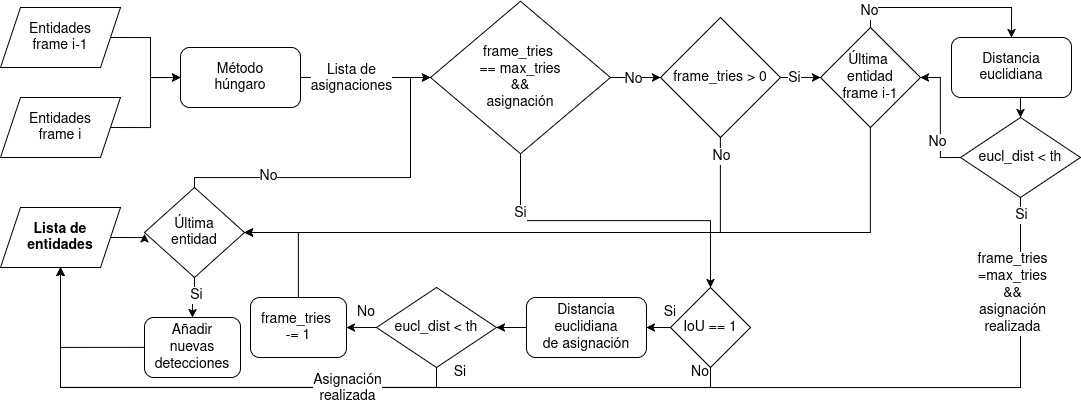
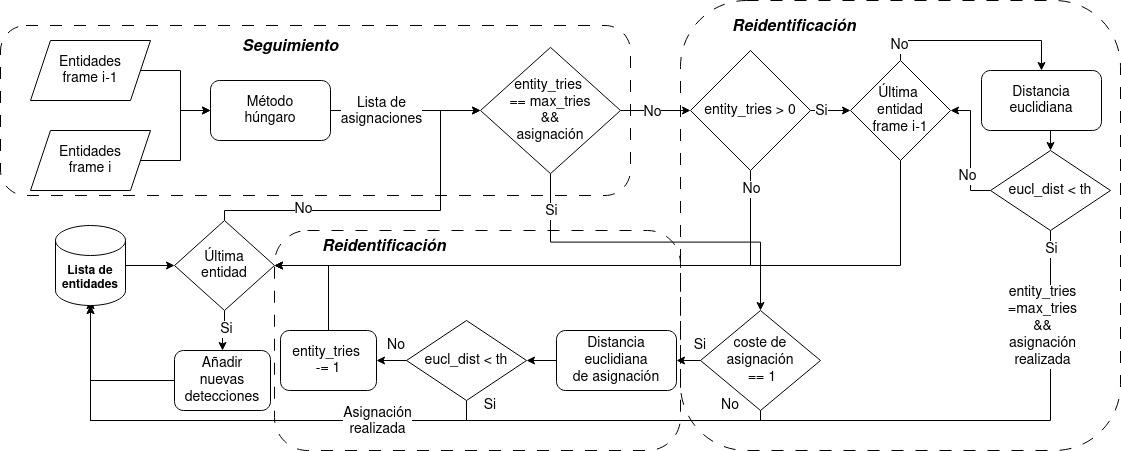
Lil arch

diff --git a/TFM/contenido/5arch.tex b/TFM/contenido/5arch.tex
@@ -38,30 +38,30 @@ TODO: trabajo relacionado? La integración de sensores propuesta en \cite{andrew
 
 En la figura \ref{fig:camnod} se muestra el flujo del nodo cámara.
 
-El nodo cámara recibe la información de un frame \acrshort{rgb} de una de las cámaras, que es procesado por 2 modelos de detección (expuestos en la sección \ref{sec:models}), uno destinado a rostros y el otro para cuerpos. Se obtienen \glspl{bbox} de los rostros y cuerpos detectados, que se comparan para asegurar que cada recorte facial se encuentra contenido en cada recorte corporal.
+El nodo cámara recibe la información de un frame \acrshort{rgb} de una de las cámaras, que es procesado por 2 modelos de detección, uno destinado a rostros (YuNet en la figura \ref{fig:camnod}) y el otro a cuerpos (YOLO en la figura \ref{fig:camnod}). Se obtienen las \glspl{bbox} de los rostros y cuerpos detectados, que se comparan para asegurar que cada recorte facial se encuentra contenido en cada recorte corporal.
 
-Tras comprobar que cada cara detectada se corresponde con un cuerpo, se procede al reconocimiento facial y corporal mediante los respectivos modelos (expuestos en la sección \ref{sec:models}), que devuelven un vector con las características representativas para un individuo (o \gls{embedding}).
+Tras comprobar que cada cara detectada se corresponde con un cuerpo, se procede al reconocimiento facial (ArcFace en la figura \ref{fig:camnod}) y corporal (OSNet en la figura \ref{fig:camnod}), que devuelven un vector con las características representativas para un individuo (o \gls{embedding}).
 
 Una vez obtenidos los \glspl{embedding} de cada usuario, se calcula la \textbf{distancia} de dicho vector con todos los vectores (sujetos) guardados en la base de datos, este cálculo se realiza mediante el algoritmo de \textbf{distancia de cosenos}, que otorga el grado de similitud entre dos vectores \cite{andrew}. Como resultado, se obtiene una lista ordenada de los sujetos según el grado de similitud.
 
 La identidad del individuo puede tomarse como la primera entrada de la lista de sujetos (es decir, la identidad más parecida), o puede procesarse la lista por medio de los métodos de distancia relativa y/o identidad probable en el nodo integración de sensores. Estos dos posibles comportamientos pueden escogerse con un valor del parámetro \textit{top\_k} de 1 o mayor que 1 respectivamente.
 
-\subsection{Arquitectura extendida}
+\section{Arquitectura extendida}
 \label{sec:finalsys}
 
 \begin{figure}
     \centering
     \includegraphics[width=1\linewidth]{imagenes/FINALSYS.jpg}
-    \caption{Arquitectura general del sistema, los módulos en negrita se corresponden con los nuevos componentes desarrollados.}
+    \caption{Arquitectura del sistema extendido, los módulos en negrita se corresponden con los nuevos componentes desarrollados.}
     \label{fig:finalsys}
 \end{figure}
 
 En la figura \ref{fig:finalsys} se muestra la arquitectura extendida, los nuevos componentes desarrollados se encuentran marcados en negrita, mientras que el resto de la arquitectura sigue la estructura ya comentada.
 
-En concreto, se han implementado los siguientes componentes:
+En concreto, se han propuesto los siguientes componentes:
 
 \begin{itemize}
-    \item \textbf{Procesamiento de secuencias de frames:} implementa toda la lógica que permite agrupar las \glspl{bbox} por individuos en más de un frame (secuencia). Todas las \glspl{bbox} se transforman en \glspl{embedding}, que se guardan en una lista para ser procesados por el módulo de \textbf{reconocimiento adaptativo}.
+    \item \textbf{Procesamiento de video (o secuencias de frames):} implementa toda la lógica que permite agrupar las \glspl{bbox} por individuos en más de un frame (video o secuencia). Todas las \glspl{bbox} se transforman en \glspl{embedding}, que se guardan en una lista para ser procesados por el módulo de \textbf{reconocimiento adaptativo}.
     \item \textbf{Reconocimiento adaptativo:} implementa la capacidad de detección e inclusión de desconocidos en el sistema (modo \textbf{\textit{Open-Set} y \textit{Open-World}}). Evalúa, mediante el uso de la teoría estadística, si una secuencia de \glspl{embedding} supuesta para un individuo no comparte similitudes con el resto de individuos registrados. En caso afirmativo, se trata de un conocido, en caso contrario, de un desconocido. En ambos casos, el sistema actualiza su conocimiento acerca del individuo por medio de la base de datos de \textbf{personas registradas}.
     \item \textbf{Personas registradas:} representa al conocimiento existente acerca de los individuos, que es compartido por \textbf{todo el sistema}, es decir, por todos los nodos cámara. Este módulo también abarca la inicialización de dicho registro al arrancar el sistema, los distintos métodos para su compartición entre nodos, así como su composición.
 \end{itemize}
@@ -76,16 +76,20 @@ Finalmente, las predicciones de cada nodo cámara se contrastan dentro del nodo 
 
 %coherente con la información otorgada por los nodos (ejemplo: dos cámaras que no están solapadas no pueden reconocer a una misma persona en el mismo instante temporal).
 
-\section{Procesamiento de secuencias de frames}
-\label{sec:video}
-El sistema de partida trabaja a nivel de frame \cite{andrew}, es decir, devuelve predicciones de los individuos presentes en una sola imagen. Esta aproximación permite trabajar a altas frecuencias (ejemplo: devolver un reconocimiento cada 100 ms), sin embargo, las predicciones dependen enteramente de la calidad del frame (ejemplo: nivel de borrosidad). En este proyecto se ha optado por trabajar con \textbf{secuencias (o intervalos) de frames}, de esta forma, se devuelve un reconocimiento más robusto basado en la coherencia espacio-temporal.
+A continuación, se exponen en detalle los componentes recién comentados.
 
-De cada frame de la secuencia, se extrae la información de los individuos presentes a partir de un modelo de detección de caras (YuNet) y/o de cuerpos (YOLO) y se agrupan por cada individuo a lo largo del intervalo aplicando el método de seguimiento y reidentificación a partir del frame actual y el anterior. El resultado final es una lista (lista de entidades en la figura \ref{fig:finalsys}) que contiene los \glspl{embedding} generados por los modelos de reconocimiento agrupados por el usuario en cada frame. El tamaño del intervalo en número de frames es ajustable según las necesidades del operador (ejemplo: intervalo de 10 frames, que equivale a 1 segundo si las cámaras funcionan a 10 Hz).
+\section{Procesamiento de video}
+\label{sec:video}
+El sistema de partida trabaja a nivel de frame \cite{andrew}, es decir, devuelve predicciones de los individuos presentes en una sola imagen. Esta aproximación permite trabajar a altas frecuencias (ejemplo: devolver un reconocimiento cada 100 ms), sin embargo, las predicciones dependen enteramente de la calidad del frame (ejemplo: nivel de borrosidad). En este proyecto se ha optado por trabajar con \textbf{secuencias (o intervalos) de frames}, de esta forma, se devuelve un reconocimiento más robusto basado en múltiples muestras.
+
+En cada frame, se extraen las \glspl{bbox} de los individuos presentes a partir de los modelos de detección de caras y cuerpos. Posteriormente, se relacionan dichos datos entre el \textbf{frame actual y el anterior}, hasta establecer la secuencia completa. El tamaño de la secuencia en número de frames es ajustable según las necesidades del operador (ejemplo: intervalo de 10 frames, que equivale a 1 segundo si las cámaras funcionan a 10 Hz).
+
+El resultado final es una lista (lista de entidades en la figura \ref{fig:finalsys}), que contiene a su vez una lista de \glspl{embedding} generados por los modelos de reconocimiento de cada \gls{bbox} por cada individuo.
 
 \subsection{Seguimiento de entidades}
 \label{sec:tracker}
 
-En casos como los del \textit{\gls{dataset}} FACE COX \cite{cox}, donde en los videos siempre aparece una sola persona, la agrupación de las entidades es trivial. Sin embargo, en un video donde aparecen múltiples individuos que se entrecruzan, es necesario adoptar un método para seguir el rastro de cada persona entre frames.
+En casos como los del \textit{\gls{dataset}} FACE COX \cite{cox}, donde en los videos siempre aparece una sola persona, la agrupación de las entidades es trivial. Sin embargo, en un video donde aparecen múltiples individuos que se entrecruzan, es necesario adoptar un método para \textbf{seguir} el rastro de cada persona entre frames.
 
 \begin{figure}
     \centering
@@ -96,7 +100,7 @@ En casos como los del \textit{\gls{dataset}} FACE COX \cite{cox}, donde en los v
 
 El \textbf{método húngaro} es un algoritmo que resuelve el problema de la asignación óptima. Dada una matriz de costes en el que cada fila establece una correlación con cada columna, dicho algoritmo buscará la \textbf{asignación óptima}, es decir, de menor coste entre elementos, en este caso, dos frames adyacentes \cite{Hungarian}.
 
-La figura \ref{fig:seq} muestra un ejemplo de funcionamiento del método, que consiste en lo siguiente: se aplica el modelo de detección pertinente y se generan las \glspl{bbox} del \textbf{frame anterior y el actual}. Posteriormente, se genera la matriz de costes, donde las \glspl{bbox} del frame anterior se encuentran en las filas y las \glspl{bbox} del frame actual en las columnas. Para cada par de \glspl{bbox} de la matriz, se calcula el \textbf{\acrfull{iou}} \cite{iou}. Finalmente, el método húngaro devuelve los pares de menor coste, que en este caso representan las \glspl{bbox} con mayor solape y similitud (es necesario invertir el valor del \acrshort{iou} restándole 1). Tras repetir el método en todos los frames de la secuencia, se obtiene la información agrupada de cada persona según el rastro generado por el algoritmo.
+Se aplica el modelo de detección pertinente y se generan las \glspl{bbox} del \textbf{frame anterior y el actual}. Posteriormente, se genera la matriz de costes, donde las \glspl{bbox} del frame anterior se encuentran en las filas y las \glspl{bbox} del frame actual en las columnas. Para cada par de \glspl{bbox} de la matriz, se calcula el \textbf{\acrfull{iou}} \cite{iou}. Finalmente, el método húngaro devuelve los pares de menor coste, es decir, de mayor valor de \acrshort{iou} (el resultado se invierte restándole un 1). Tras repetir el método en todos los frames de la secuencia, se obtiene la información agrupada de cada persona según el rastro generado por el algoritmo. La figura \ref{fig:seq} muestra un ejemplo de funcionamiento del método.
 
 La métrica \acrshort{iou} devuelve el porcentaje de solapamiento y similitud entre \glspl{bbox} (como se muestra en la figura \ref{fig:iou}), de forma que recortes de diferente tamaño (cuando más cerca esté el sujeto de la cámara, más grande será el recorte) den un valor bajo al solaparse (ejemplo: personas que coinciden en la imagen en diferentes distancias). Dadas dos \glspl{bbox} A y B, el \acrshort{iou} se calcula como sigue en la ecuación \ref{eq:iou}.
 
@@ -113,26 +117,27 @@ La métrica \acrshort{iou} devuelve el porcentaje de solapamiento y similitud en
 
 \subsection{Reidentificación de entidades}
 \label{subsec:reiden}
-Es posible que durante la detección, las \glspl{bbox} de una misma persona en frames consecutivos no se solapen debido a la velocidad de movimiento de la propia persona o a un movimiento de la cámara, lo que imposibilita la aplicación del método húngaro. Otro problema es el no seguimiento de la persona cuando esta se encuentra totalmente ocluida (ejemplo: se cruza un individuo justo delante) y reaparece o si simplemente la persona gira su cara fuera de la visión de la cámara y vuelve a detectarse después, en estos casos se crearía una nueva entidad para el mismo individuo, lo que no es un comportamiento deseable.
+Es posible que durante la detección, las \glspl{bbox} de una misma persona en frames consecutivos no se solapen debido a la velocidad de movimiento de la propia persona o a un movimiento de la cámara, lo que causa una incorrecta aplicación del método húngaro. En este caso, se asigna el mayor coste (valor de 1) a la relación (es decir, un valor de \acrshort{iou} de 0), lo que genera el riesgo de asociar 2 \glspl{bbox} de individuos diferentes.
 
-El \textbf{filtro de Kalman} predice la próxima posición del individuo a partir de la probabilidad Gausiana, de tal forma que puede mantenerse el rastro cuando la persona desaparece por unos frames. A pesar de ser una técnica efectiva, el filtro necesita de un mínimo de frames para converger cuando una nueva persona aparece \cite{MangoYOLO}, lo que no es beneficioso para intervalos de secuencia cortos. Finalmente se ha optado por un método más sencillo basado en la \textbf{distancia euclidiana}.
+%También existe la posibilidad de que el método húngaro realice una mala asignación cuando 2 \glspl{bbox} no coinciden, en este caso tendrían el coste máximo (valor de 1), pero igualmente se relacionarían al no existir otras relaciones de menor coste.
 
-Dicho método consiste en los siguiente: en el caso de que haya un movimiento veloz del individuo o de la cámara, se calcula la distancia entre el \textbf{centro} de la \gls{bbox} actual con la \glspl{bbox} posterior que no tiene solape, si la distancia calculada es \textbf{inferior a un umbral}, \textbf{se valida la asociación}. En el caso de perder el rastro del individuo, se guarda la posición de la última aparición del mismo y se calcula la distancia con las \glspl{bbox} sin asociación en futuros frames, si la distancia no es inferior al umbral en un máximo de frames (prefijado por el operador), \textbf{se abandona el rastreo}, en caso contrario se restablece. El valor del umbral se fija de antemano \textbf{y se ajusta automáticamente en función de la resolución} de la cámara utilizando un escalado a partir de la diagonal (se calcula la diagonal de la resolución prefijada y la nueva resolución y se divide la diagonal de la resolución nueva entre la prefijada, el resultado se multiplica por el valor de umbral).
+Otro problema es el no seguimiento de la persona cuando esta se encuentra totalmente ocluida (ejemplo: se cruza un individuo justo delante) y reaparece o si simplemente la persona gira su cabeza, dejando la cara fuera de la visión de la cámara, y la vuelve a girar. En estos casos, se crearía una nueva entidad para el mismo individuo, lo que no es un comportamiento deseable.
+
+Debido a estas situaciones, es necesario aplicar un método que pueda \textbf{reidentificar} a los individuos "desaparecidos".
+
+El \textbf{filtro de Kalman} predice la próxima posición del individuo a partir de la probabilidad Gausiana, de tal forma que puede mantenerse el rastro cuando la persona desaparece por unos frames. A pesar de ser una técnica efectiva, el filtro necesita de un mínimo de frames para converger cuando una nueva persona aparece \cite{MangoYOLO}, lo que no es beneficioso para intervalos de secuencia cortos. Finalmente, se ha optado por un método más sencillo basado en la \textbf{distancia euclidiana}.
+
+En el caso de que haya un movimiento veloz del individuo o de la cámara, se calcula la distancia entre el \textbf{centro} de la \gls{bbox} actual con la \gls{bbox} posterior que no tiene solape, si la distancia calculada es \textbf{inferior a un umbral}, \textbf{se valida la asociación}.
+
+En el caso de perder el rastro del individuo, se guarda la posición de la última aparición del mismo y se calcula la distancia con las \glspl{bbox} sin asociación en futuros frames, si la distancia es \textbf{superior} al umbral en un máximo de frames (prefijado por el operador), \textbf{se abandona el rastreo}, en caso contrario se restablece.
+
+El valor del umbral se fija de antemano \textbf{y se ajusta automáticamente en función de la resolución} de la cámara utilizando un escalado a partir de la diagonal (se calcula la diagonal de la resolución prefijada y la nueva resolución y se divide la diagonal de la resolución nueva entre la prefijada, el resultado se multiplica por el valor de umbral).
+
+Siendo $\Delta x$ y $\Delta y$ la diferencia entre las coordenadas \acrshort{2d} de los centros de dos \glspl{bbox}, la distancia euclidiana se calcula como se muestra en la ecuación \ref{eq:eucl}.
 
 \begin{equation}
     \Delta r_{euclid} = \sqrt{\Delta x^{2} + \Delta y^{2}} \label{eq:eucl}
 \end{equation}
-
-Siendo $\Delta x$ y $\Delta y$ la diferencia entre las coordenadas \acrshort{2d} de los centros de dos \glspl{bbox}, la distancia euclidiana se calcula como se muestra en la figura \ref{eq:eucl}.
-
-\begin{figure}
-    \centering
-    \includegraphics[width=1\linewidth]{imagenes/FOLREID.jpg}
-    \caption{Diagrama de flujo del seguimiento y reidentificación}
-    \label{fig:reident}
-\end{figure}
-
-La figura \ref{fig:reident} muestra el diagrama de flujo del módulo de seguimiento y reidentificación. El seguimiento de las entidades a lo largo de los frames se guarda en la \textbf{lista de entidades} vista en la figura \ref{fig:finalsys}, en cada iteración se revisan todas las entidades de la lista, TODO: seguir explicando
 
 \begin{figure}[hp!]
     \centering
@@ -151,6 +156,17 @@ La figura \ref{fig:reident} muestra el diagrama de flujo del módulo de seguimie
 
 En la figura \ref{fig:eucls} se expone un ejemplo real, en el primer frame, se muestran dos entidades etiquetadas con un identificador (0 y 1) y como se aplica la distancia euclidiana para la entidad 0, cuyas \glspl{bbox} no se solapan, también se muestra como la entidad 1 está a punto de ser ocluida, al no haber \glspl{bbox} en frames posteriores asociables a la entidad 1, la posición del sujeto se guarda. En el segundo frame (figura \ref{fig:eucls}), la entidad 1 se encuentra totalmente ocluida por la entidad 0, como en el instante posterior a dicho frame existe una \gls{bbox} sin ninguna asociación, se calcula la distancia euclidiana entre dicha \gls{bbox} respecto a la última detectada de la entidad 1. En el último frame (figura \ref{fig:eucls}) se muestra la entidad 1 reasignada.
 
+\begin{figure}
+    \centering
+    \includegraphics[width=1\linewidth]{imagenes/FOLREID.jpg}
+    \caption{Diagrama de flujo del procesamiento de video}
+    \label{fig:reident}
+\end{figure}
+
+La figura \ref{fig:reident} muestra el diagrama de flujo que conforma todo el módulo de procesamiento de video.
+
+Se aplica el método húngaro para asociar detecciones entre el frame anterior y el actual. Si algún individuo posee la asignación de mayor coste, o no se ha establecido mediante el método húngaro, se aplica el método de reidentificación durante un máximo de frames (variable max\_tries). En caso de encontrar TODO.
+
 \section{Reconocimiento adaptativo}
 
 \begin{figure}[tb]
@@ -164,7 +180,7 @@ Es el módulo encargado de devolver las predicciones y actualizar el conocimient
 
 En la figura \ref{fig:ADAPTSYS} se muestra la arquitectura de este módulo, cuyos componentes se han diseñado partiendo de \cite{Erik, CESAR} como referencia.
 
-Tras agrupar las \glspl{bbox} por individuos y calcular sus vectores (\textit{\glspl{embedding}}), estos se comparan contra las personas registradas para averiguar si dichos sujetos pertenecen o no al sistema. La base de datos está compuesta por \textbf{comités (o colecciones) de \acrshort{svm} lineales} para cada individuo. Las \acrshort{svm} de los comités procesan los \textit{\glspl{embedding}}, devolviendo una serie de \textbf{puntuaciones}, que representan la distancia del punto respecto al plano lineal que distingue entre la clase del propio individuo y el resto del universo. Finalmente, se toma la decisión de reconocimiento a partir de dichas puntuaciones y se actualiza la base de datos con los nuevos \glspl{embedding}.
+Tras agrupar las \glspl{bbox} por individuos y calcular sus vectores (o \textit{\glspl{embedding}}), estos se comparan contra las personas registradas para averiguar si dichos sujetos pertenecen o no al sistema. La base de datos está compuesta por \textbf{comités (o colecciones) de \acrshort{svm} lineales} para cada individuo. Las \acrshort{svm} de los comités procesan los \textit{\glspl{embedding}}, devolviendo una serie de \textbf{puntuaciones}, que representan la distancia del punto respecto al plano lineal que distingue entre la clase del propio individuo y el resto del universo. Finalmente, se toma la decisión de reconocimiento a partir de dichas puntuaciones y se actualiza la base de datos con los nuevos \glspl{embedding}.
 
 El módulo de reconocimiento adaptativo se compone de los siguientes componentes, presentes en la figura \ref{fig:ADAPTSYS}:
 \begin{itemize}
